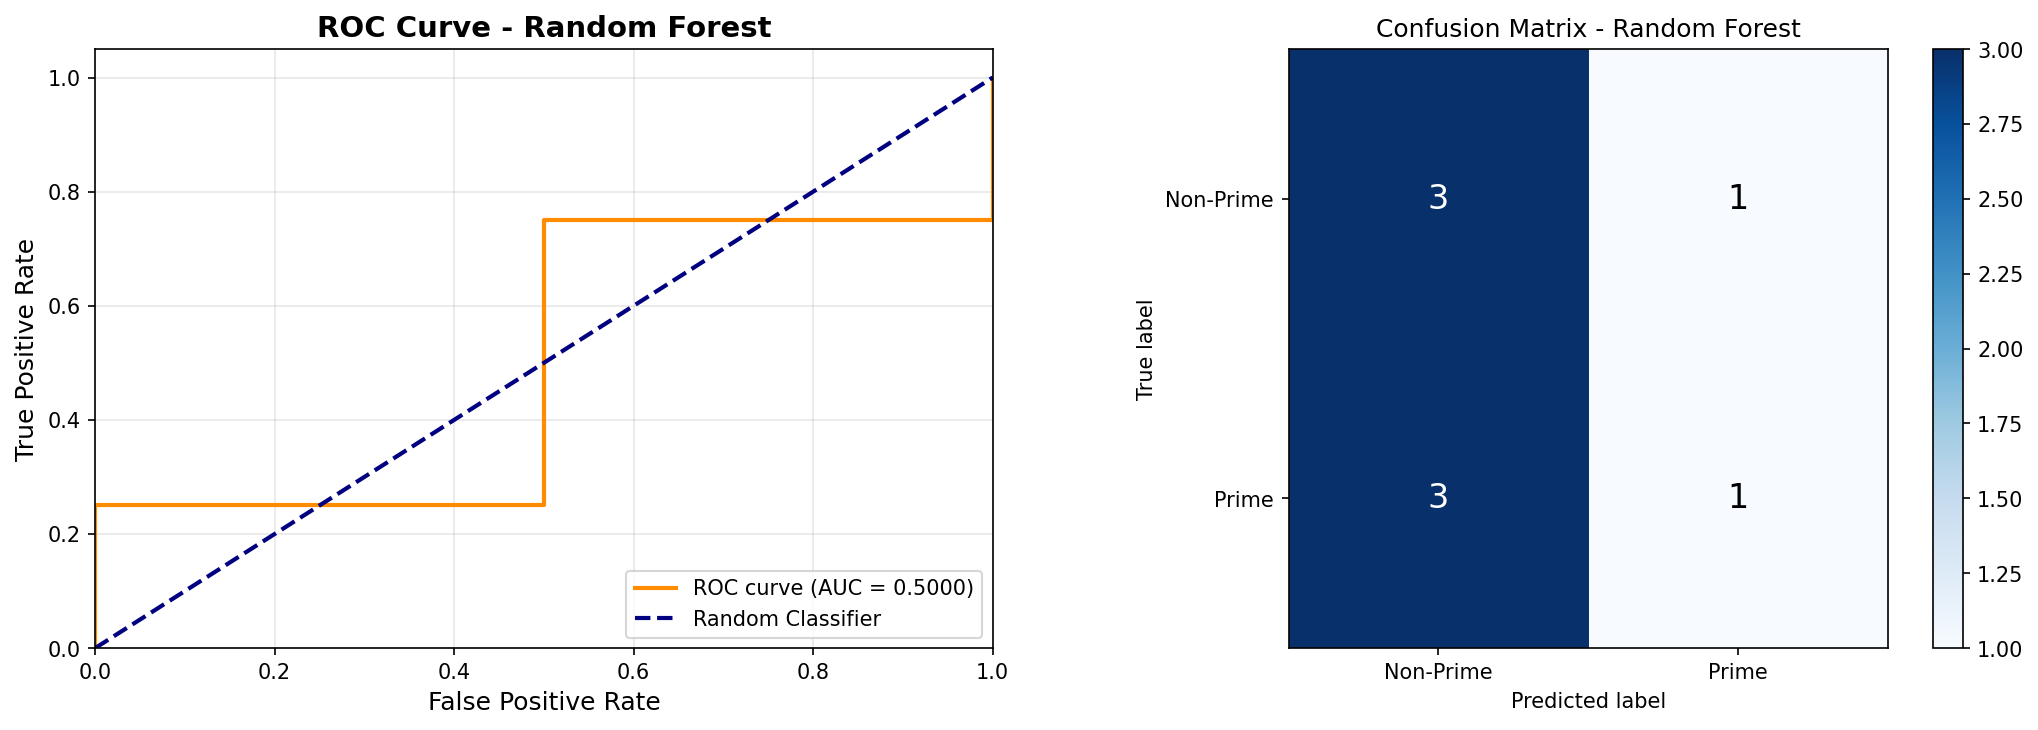
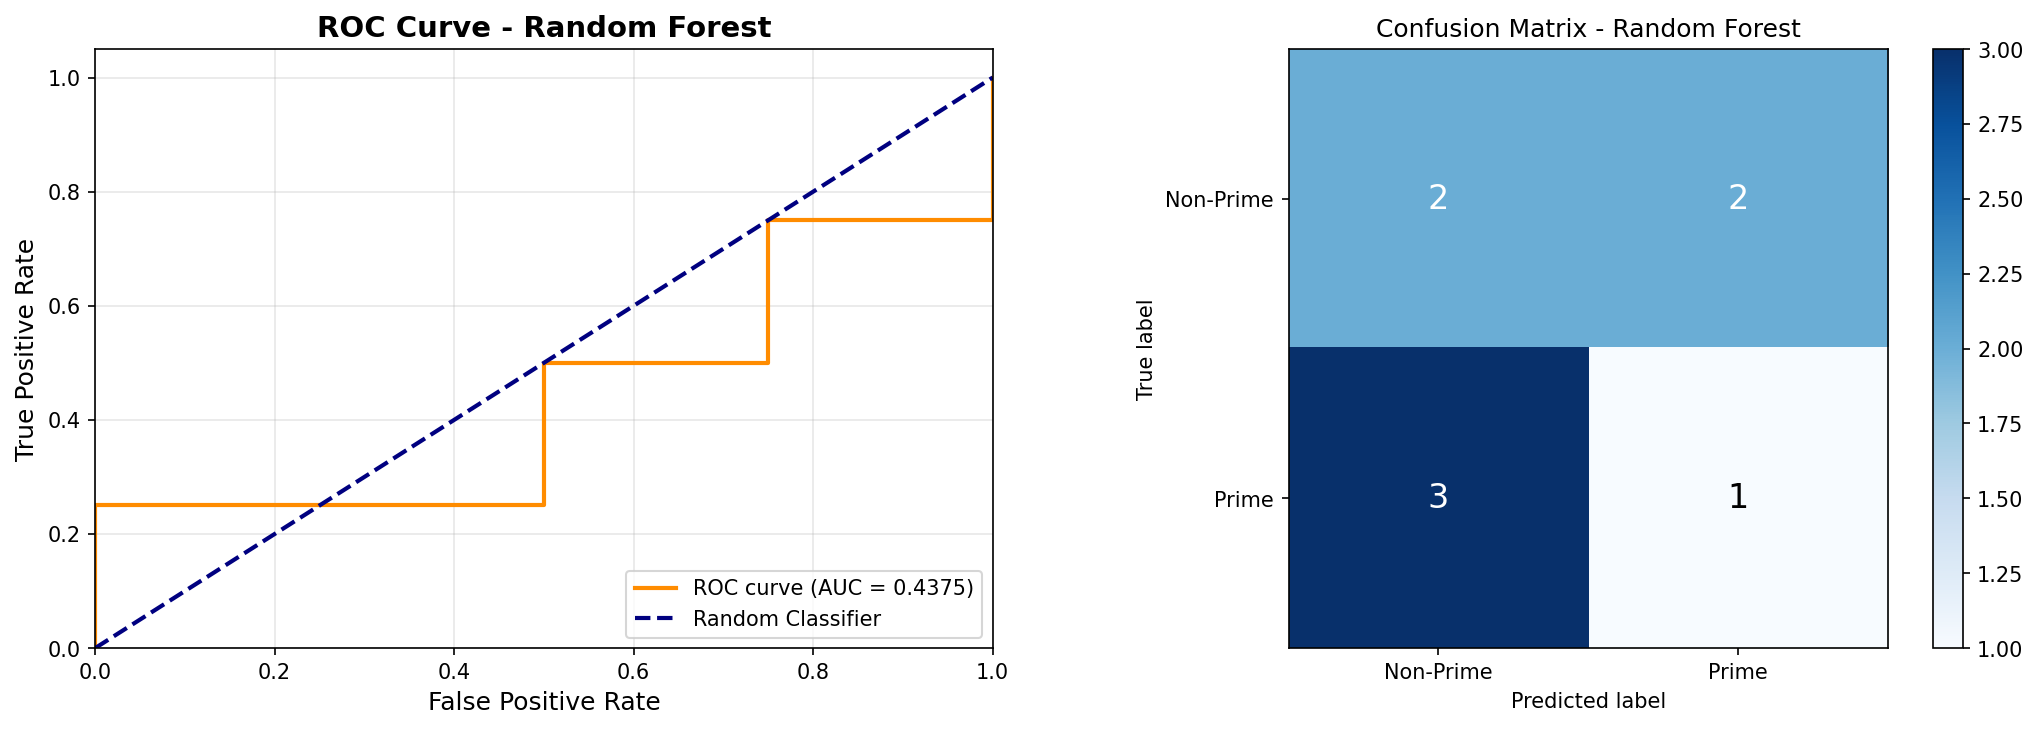
Refactor: only use numbers that don't end in 0, 2, or 5

Changed region(s): [[0.6183, 0.0603, 0.9274, 0.4822], [0.2782, 0.4822, 0.371, 0.5123], [0.4328, 0.7836, 0.4946, 0.8137]]

diff --git a/prime_ml_classifier.py b/prime_ml_classifier.py
@@ -40,13 +40,19 @@ def is_prime(n):
 
 
 def generate_prime_numbers(count, min_val=1000000, max_val=9999999):
-    """Generate a specified number of 7-digit prime numbers."""
+    """Generate a specified number of 7-digit prime numbers.
+    Only generates numbers that don't end in 0, 2, or 5."""
     primes = []
     attempts = 0
     max_attempts = count * MAX_GENERATION_ATTEMPTS_MULTIPLIER  # Prevent infinite loops
+    valid_endings = [1, 3, 7, 9]  # Numbers ending in 0, 2, 5 are excluded
     
     while len(primes) < count and attempts < max_attempts:
-        candidate = random.randint(min_val, max_val)
+        candidate = random.randint(min_val // 10, max_val // 10) * 10 + random.choice(valid_endings)
+        # Ensure candidate is within bounds
+        if candidate < min_val or candidate > max_val:
+            attempts += 1
+            continue
         if is_prime(candidate) and candidate not in primes:
             primes.append(candidate)
         attempts += 1
@@ -58,13 +64,19 @@ def generate_prime_numbers(count, min_val=1000000, max_val=9999999):
 
 
 def generate_non_prime_numbers(count, min_val=1000000, max_val=9999999):
-    """Generate a specified number of 7-digit non-prime numbers."""
+    """Generate a specified number of 7-digit non-prime numbers.
+    Only generates numbers that don't end in 0, 2, or 5."""
     non_primes = []
     attempts = 0
     max_attempts = count * MAX_GENERATION_ATTEMPTS_MULTIPLIER
+    valid_endings = [1, 3, 7, 9]  # Numbers ending in 0, 2, 5 are excluded
     
     while len(non_primes) < count and attempts < max_attempts:
-        candidate = random.randint(min_val, max_val)
+        candidate = random.randint(min_val // 10, max_val // 10) * 10 + random.choice(valid_endings)
+        # Ensure candidate is within bounds
+        if candidate < min_val or candidate > max_val:
+            attempts += 1
+            continue
         if not is_prime(candidate) and candidate not in non_primes:
             non_primes.append(candidate)
         attempts += 1

diff --git a/test_generate_dataset.py b/test_generate_dataset.py
@@ -167,6 +167,47 @@ def test_data_integrity():
             os.remove(tmp_path)
 
 
+def test_number_endings():
+    """Test that generated numbers don't end in 0, 2, or 5."""
+    print("\nTesting that generated numbers don't end in 0, 2, or 5...")
+    
+    with tempfile.NamedTemporaryFile(mode='w', suffix='.csv', delete=False) as tmp:
+        tmp_path = tmp.name
+    
+    try:
+        result = subprocess.run(
+            [sys.executable, 'generate_dataset.py', 
+             '--primes', '30', '--non-primes', '30', '--output', tmp_path],
+            cwd=os.path.dirname(os.path.abspath(__file__)),
+            capture_output=True,
+            text=True,
+            timeout=30
+        )
+        
+        assert result.returncode == 0, "Generation should succeed"
+        
+        df = pd.read_csv(tmp_path)
+        
+        # Check that all numbers end in 1, 3, 7, or 9
+        for idx, row in df.iterrows():
+            number = row['number']
+            last_digit = number % 10
+            assert last_digit in [1, 3, 7, 9], \
+                f"Number {number} should end in 1, 3, 7, or 9, not {last_digit}"
+            assert last_digit not in [0, 2, 5], \
+                f"Number {number} should not end in 0, 2, or 5"
+            
+            # Also verify ten_power_0 matches
+            assert row['ten_power_0'] == last_digit, \
+                f"ten_power_0 should match last digit for {number}"
+        
+        print(f"✓ All {len(df)} numbers correctly end in 1, 3, 7, or 9")
+        
+    finally:
+        if os.path.exists(tmp_path):
+            os.remove(tmp_path)
+
+
 def main():
     """Run all tests."""
     print("="*60)
@@ -179,6 +220,7 @@ def main():
         test_custom_counts()
         test_invalid_arguments()
         test_data_integrity()
+        test_number_endings()
         
         print("\n" + "="*60)
         print("All tests passed! ✓")

diff --git a/test_prime_classifier.py b/test_prime_classifier.py
@@ -96,6 +96,29 @@ def test_generate_non_prime_numbers():
     print(f"✓ Generated 10 non-primes: {non_primes[:5]}...")
 
 
+def test_number_endings():
+    """Test that generated numbers don't end in 0, 2, or 5."""
+    print("\nTesting that numbers don't end in 0, 2, or 5...")
+    
+    # Generate numbers
+    primes = generate_prime_numbers(20, min_val=1000000, max_val=9999999)
+    non_primes = generate_non_prime_numbers(20, min_val=1000000, max_val=9999999)
+    
+    # Check primes
+    for p in primes:
+        last_digit = p % 10
+        assert last_digit not in [0, 2, 5], f"Prime {p} should not end in 0, 2, or 5"
+        assert last_digit in [1, 3, 7, 9], f"Prime {p} should end in 1, 3, 7, or 9"
+    
+    # Check non-primes
+    for np in non_primes:
+        last_digit = np % 10
+        assert last_digit not in [0, 2, 5], f"Non-prime {np} should not end in 0, 2, or 5"
+        assert last_digit in [1, 3, 7, 9], f"Non-prime {np} should end in 1, 3, 7, or 9"
+    
+    print("✓ All numbers correctly end in 1, 3, 7, or 9")
+
+
 def test_load_dataset_from_csv():
     """Test loading dataset from CSV file."""
     print("\nTesting load_dataset_from_csv function...")
@@ -194,6 +217,7 @@ def main():
         test_number_to_features()
         test_generate_prime_numbers()
         test_generate_non_prime_numbers()
+        test_number_endings()
         test_load_dataset_from_csv()
         test_classifier_with_csv_input()
         
